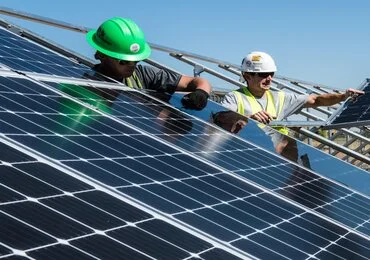
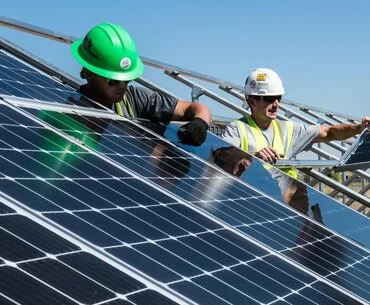
add some styling and images

diff --git a/src/components/Molecules/Card/Card.js b/src/components/Molecules/Card/Card.js
@@ -1,22 +1,13 @@
 import React from 'react';
 import HeadingTwoFaces from '../../Atoms/HeadingTwoFaces/HeadingTwoFaces';
 import PropTypes from 'prop-types';
-import {
-  Container,
-  HeadingContainer,
-  PictureContainer,
-  TextContainer,
-} from './CardStyled';
+import { Container, HeadingContainer, PictureContainer, TextContainer } from './CardStyled';
 
 const Card = ({ id, content, photo, headingText, headingText2 }) => (
   <>
-    <Container widther={id} data-aos="fade-up">
+    <Container widther={id}>
       <HeadingContainer>
-        <HeadingTwoFaces
-          widther={id}
-          firstW={headingText}
-          secondW={headingText2}
-        />
+        <HeadingTwoFaces widther={id} firstW={headingText} secondW={headingText2} />
       </HeadingContainer>
       <PictureContainer photo={photo} />
       <TextContainer>{content}</TextContainer>

diff --git a/src/components/Molecules/Card/CardStyled.js b/src/components/Molecules/Card/CardStyled.js
@@ -30,12 +30,15 @@ export const PictureContainer = styled.div`
   box-shadow: rgba(0, 0, 0, 0.35) 0px 5px 15px;
   background-image: url(${({ photo }) => photo});
   background-repeat: no-repeat;
+  background-size: cover;
   background-position: center;
 `;
 
 export const TextContainer = styled.div`
   box-shadow: rgba(0, 0, 0, 0.35) 0px 5px 15px;
-  padding: 30px;
+  display: flex;
+  align-items: center;
+  padding: 0 15px;
   text-align: center;
   color: white;
   font-size: ${({ theme }) => theme.fontSize.s};
